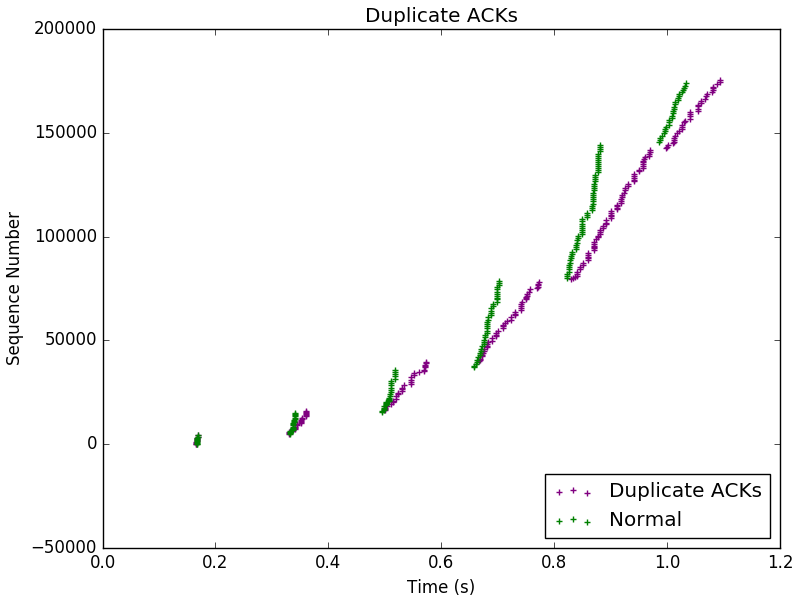
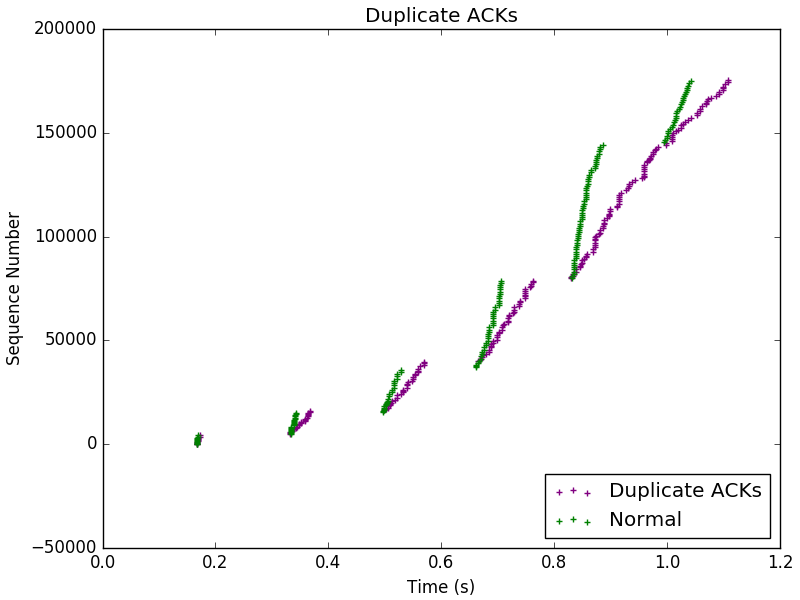
op ack fix

Changed region(s): [[0.5938, 0.12, 0.9375, 0.63], [0.4688, 0.6, 0.5312, 0.69], [0.3438, 0.66, 0.4062, 0.72]]

diff --git a/transmit.py b/transmit.py
@@ -10,14 +10,20 @@ import threading
 #########################################
 IP_DST = sys.argv[2]
 DST_PORT =  int(sys.argv[3])
+FIX = int(sys.argv[4]) # 0 = no, 1 = yes
+client_nonce = 0
+server_nonce = 0
 
 SRC_PORT = random.randint(1024,65535)
 data = list()
-FileName = "npy/%s.npy" % sys.argv[1]
+File = sys.argv[1]
+if (FIX and (File == 'op' or File == 'normal')):
+  File += '_fix'
+FileName = "npy/%s.npy" % File
 
 ## For Opt attack specifically.
 MTU = 1472 # Default for TCP
-WAIT_TIME = 0.05
+WAIT_TIME = 0.4
 curr_ACK = 0  # For OPT
 curr_SEQ = 0  # For OPT
 count_SEQ = 0 # For DUP
@@ -48,10 +54,13 @@ socket.send(Ether() / request)
 ### Global method definitions.
 ##########################################
 ### Send ACK with sequence no seq and ack num ack.
+## Nonce logic invokes as layer beween client and server.
 def send_ACK(seq, ack):
-  ack_pkt = IP(dst=IP_DST) / TCP(window=65535, dport=DST_PORT, sport=SRC_PORT,
+  global client_nonce, server_nonce
+  if((not FIX) or (FIX and (client_nonce == server_nonce))):
+    ack_pkt = IP(dst=IP_DST) / TCP(window=65535, dport=DST_PORT, sport=SRC_PORT,
              seq=seq, ack=ack, flags='A')
-  socket.send(Ether() / ack_pkt)
+    socket.send(Ether() / ack_pkt)
 
 ### Send ACK with normal sequence progression.
 def send_ACK_in_seq(pkt):
@@ -59,11 +68,14 @@ def send_ACK_in_seq(pkt):
 
 
 ### Function to send ACK used in opt.
+## Assume no access to server-generated nonce here.
 def send_ACK_opt():
   global curr_ACK
-  while (curr_ACK - initialSeq) < MAX_SIZE:
+  while (((curr_ACK - initialSeq) < MAX_SIZE) and ((not FIX) or (FIX and (client_nonce == server_nonce)))):
     curr_ACK += MTU
-    send_ACK(curr_SEQ, curr_ACK)
+    ack_pkt = IP(dst=IP_DST) / TCP(window=65535, dport=DST_PORT, sport=SRC_PORT,
+             seq=curr_SEQ, ack=curr_ACK, flags='A')
+    socket.send(Ether() / ack_pkt)
 
 ## Split ACK across several packets
 def get_split_acks(pkt):
@@ -97,11 +109,16 @@ def data_len(pkt):
 ### Proper handling for packet with normal transmission.
 #########################################################
 def normal(pkt):
+  global client_nonce, server_nonce
   if (check_pkt(pkt)):
     return
   append(pkt)
   send_ACK_in_seq(pkt)
-  
+  ## Assume this is received from the server.
+  randy = random.randint(1,1000)
+  server_nonce +=randy
+  # Nonce also added onto client because we can access it.
+  client_nonce +=randy
 
 
 
@@ -132,9 +149,12 @@ def split(pkt) :
 ### Proper handling for OP attacks.
 #########################################################
 def op(pkt):
+  global client_nonce, server_nonce
   if (check_pkt(pkt)):
     return
   append(pkt)
+  # Assume this is received from server, but ignored.
+  server_nonce += random.randint(1,1000)
   # ACKs being send optimistically, not in response.
 
 ## Special timing stuff for op attack.
@@ -153,7 +173,7 @@ if sys.argv[1] == "normal" :
     sniff(iface="client-eth0", prn=normal, filter="tcp and ip", timeout=4)
 if sys.argv[1] == "dup":
     sniff(iface="client-eth0", prn=dup, filter="tcp and ip", timeout=4)
-if sys.argv[1] == "op" :
+if sys.argv[1] == "op":
     sniff(iface="client-eth0", prn=op, filter="tcp and ip", timeout=4)
 if sys.argv[1] == "split" :
     sniff(iface="client-eth0", prn=split, filter="tcp and ip", timeout=4)

diff --git a/plot.py b/plot.py
@@ -9,6 +9,8 @@ dupACKs = np.load("npy/dup.npy")
 splitACKs = np.load("npy/split.npy")
 normalACKs = np.load("npy/normal.npy")
 opACKs = np.load("npy/op.npy")
+normalACKs_fix = np.load("npy/normal_fix.npy")
+opACKs_fix = np.load("npy/op_fix.npy") 
 
 plt.figure(1)
 plt.title("Duplicate ACKs")
@@ -51,3 +53,18 @@ plt.ylabel("Sequence Number")
 plt.legend(loc="lower right")
 plt.tight_layout(pad=0.4, w_pad=0.5, h_pad=1.0)
 plt.savefig("output/op.png")
+
+
+plt.figure(4)
+plt.title("Optimistic ACKs (Fixed)")
+plt.scatter(opACKs_fix[0][:-5], opACKs_fix[1][:-5],
+		 label="Optimistic ACKs", color='blue',
+		 marker="+")
+plt.scatter(normalACKs_fix[0][:-5], normalACKs_fix[1][:-5], 
+		label="Normal", color='green', 
+		marker="+")
+plt.xlabel("Time (s)")
+plt.ylabel("Sequence Number")
+plt.legend(loc="lower right")
+plt.tight_layout(pad=0.4, w_pad=0.5, h_pad=1.0)
+plt.savefig("output/op_fix.png")

diff --git a/topo.py b/topo.py
@@ -27,6 +27,10 @@ parser.add_argument("--attack",
     "op"],
 	default = "normal")
 
+parser.add_argument("--fix",
+  type=int,
+  default= 0)
+
 args = parser.parse_args()
 
 # Generate simple topology per Experiment 1.
@@ -68,8 +72,8 @@ def launchNet():
 
   # Launch webserver to generate traffic
   server.popen("python webserver.py", shell=True)
-  #client.popen("python %s %s %s" % (args.script, '10.0.0.1', 8888), shell=True).wait()
-  client.popen("python transmit.py %s %s %d" % (args.attack, '10.0.0.1', 8888), shell=True).wait()
+  print args.fix  
+  client.popen("python transmit.py %s %s %d %d" % (args.attack, '10.0.0.1', 8888, args.fix), shell=True).wait()
 
   # Kill webserver
   server.popen("pgrep -f webserver.py | xargs kill -9", shell=True).wait() 
